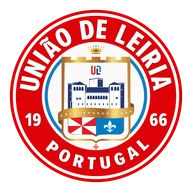
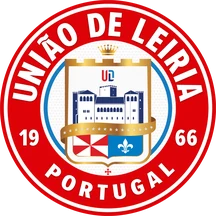
Logotipos do cabeçalho com tamanhos equilibrados
Imagens cortadas sem margens, mesma altura para o logotipo da campanha e o
emblema do clube (56px no telemóvel, 68px a partir de 768px).

Claude-Session: https://claude.ai/code/session_01CcraKdsfgpqu2zxuU2NHAS

diff --git a/index.html b/index.html
@@ -21,12 +21,12 @@
         <a class="marca" href="#conteudo">
           <picture>
             <source srcset="imagens/logo-fora-de-jogo-claro.png" media="(prefers-color-scheme: light)">
-            <img class="marca__logo" src="imagens/logo-fora-de-jogo-escuro.png" width="144" height="144" alt="">
+            <img class="marca__logo" src="imagens/logo-fora-de-jogo-escuro.png" width="192" height="192" alt="">
           </picture>
           <span>Fora de Jogo</span>
         </a>
         <span class="topo__separador" aria-hidden="true"></span>
-        <img class="emblema" src="imagens/emblema-uniao-de-leiria.webp" width="192" height="192" alt="União de Leiria">
+        <img class="emblema" src="imagens/emblema-uniao-de-leiria.webp" width="216" height="216" alt="União de Leiria">
       </div>
       <nav aria-label="Secções da página">
         <ul class="nav">
@@ -352,7 +352,7 @@
     <div class="contentor">
       <p class="rodape__apelo">Fala. Liga <a href="tel:1414" data-ajuda="1414-rodape">1414</a>.</p>
       <div class="rodape__clube">
-        <img class="rodape__emblema" src="imagens/emblema-uniao-de-leiria.webp" width="192" height="192" alt="" loading="lazy">
+        <img class="rodape__emblema" src="imagens/emblema-uniao-de-leiria.webp" width="216" height="216" alt="" loading="lazy">
         <p>Campanha em colaboração com a União de Leiria.</p>
       </div>
       <p>Projeto académico do CTeSP em Comunicação Digital, Universidade de Leiria e Oeste.</p>

diff --git a/style.css b/style.css
@@ -210,21 +210,27 @@ p.por-confirmar { display: block; width: fit-content; max-width: 100%; margin-bo
 .topo__marcas {
   display: flex;
   align-items: center;
-  gap: 0.75rem;
+  gap: 1rem;
 }
 .marca {
   display: inline-flex;
   align-items: center;
-  gap: 0.5rem;
+  gap: 0.75rem;
   min-height: 2.75rem;
   font-family: var(--fonte-titulo);
   font-weight: 800;
-  font-size: 1.125rem;
+  font-size: 1.25rem;
   text-decoration: none;
 }
-.marca__logo { display: block; width: 3rem; height: 3rem; border-radius: 0.5rem; }
-.topo__separador { width: 1px; height: 2.25rem; background: var(--linha); }
-.emblema { display: block; width: 3rem; height: 3rem; }
+/* Os dois logotipos têm a mesma altura visível (ficheiros cortados sem margens). */
+.marca__logo,
+.emblema { display: block; width: 3.5rem; height: 3.5rem; flex: none; }
+.topo__separador { width: 1px; height: 2.75rem; background: var(--linha); }
+@media (min-width: 48rem) {
+  .marca__logo,
+  .emblema { width: 4.25rem; height: 4.25rem; }
+  .topo__separador { height: 3.25rem; }
+}
 
 .nav {
   display: flex;
